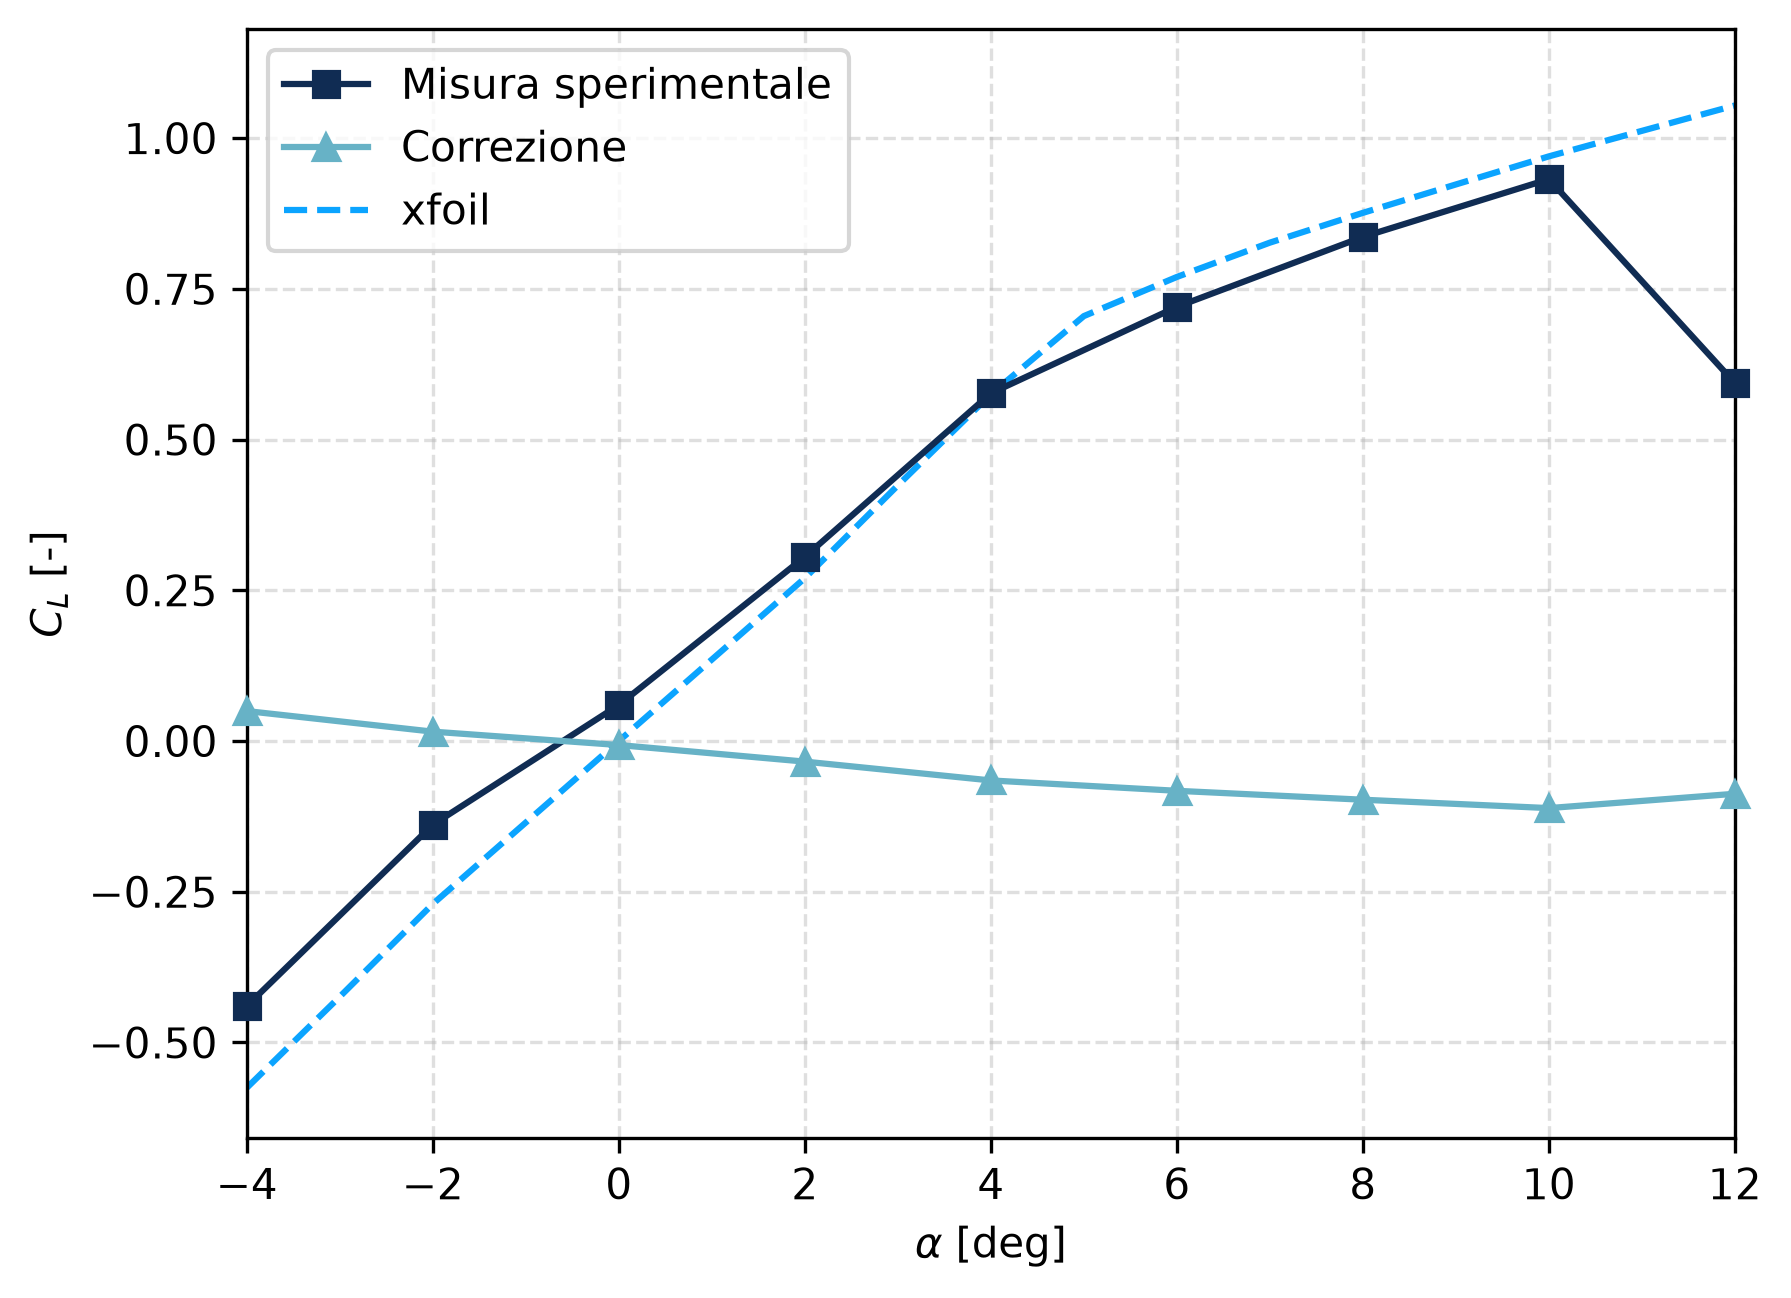
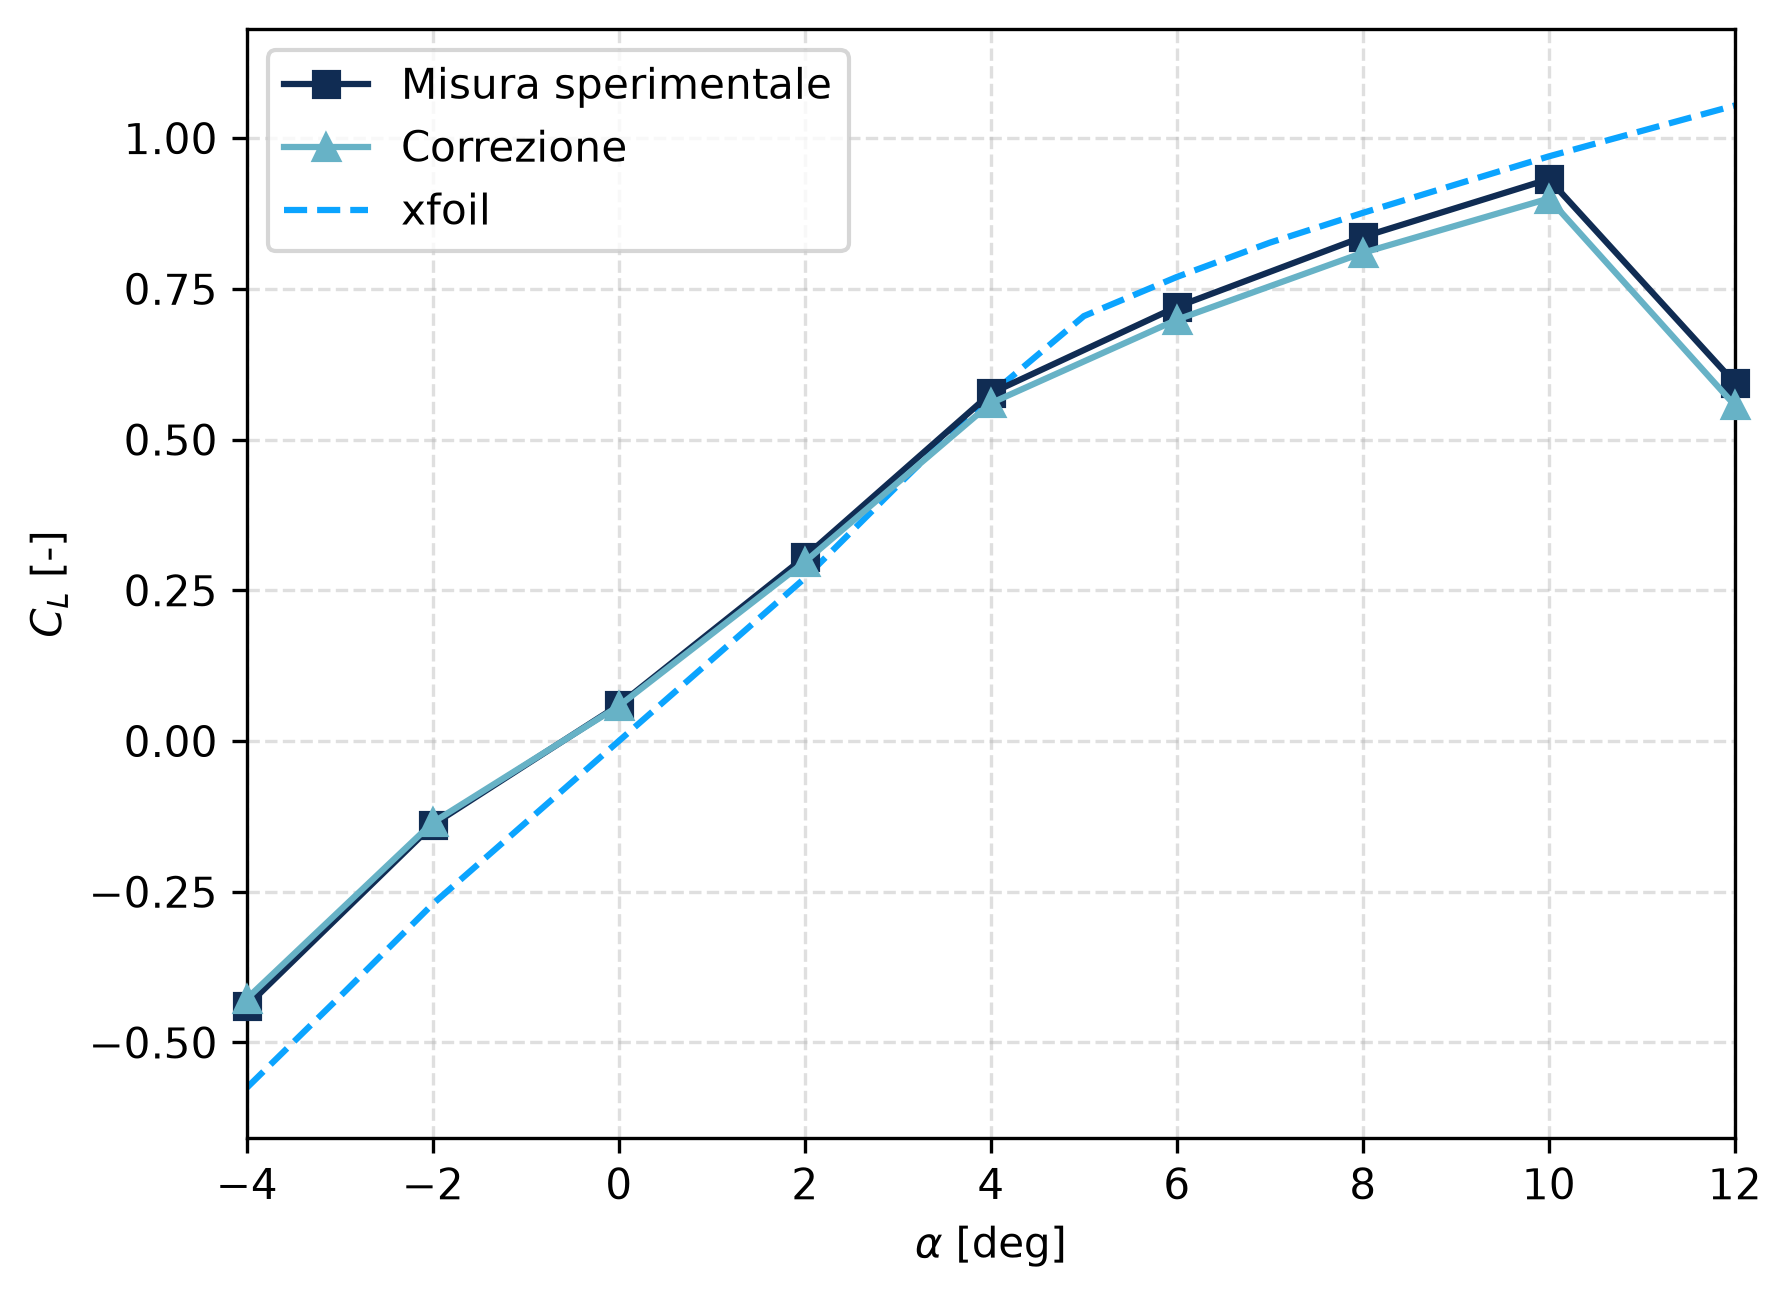
Changed value of wing volume

diff --git a/compute_loads.py b/compute_loads.py
@@ -150,7 +150,7 @@ def main():
     output_folder = "./Output"
 
     # Define the experiment parameters
-    test_wing = Wing("NACA0015",0.100,0.294,0.15,3.43,0.030196676)
+    test_wing = Wing("NACA0015",0.100,0.294,0.15,3.43,3.00174e-4)
     test_section = TestSection(1,0.3,0.45,10)
 
     # Import data and calibration parameters

diff --git a/compute_uncertanty.py b/compute_uncertanty.py
@@ -102,7 +102,7 @@ def main():
     q = q_file[:,1]
 
     # Define wing
-    test_wing = Wing("NACA0015",0.100,0.294,0.15,3.43,0.030196676)
+    test_wing = Wing("NACA0015",0.100,0.294,0.15,3.43,3.00174e-4)
     
     # Extract signals
     S_on  = DATA[:,0:3]
